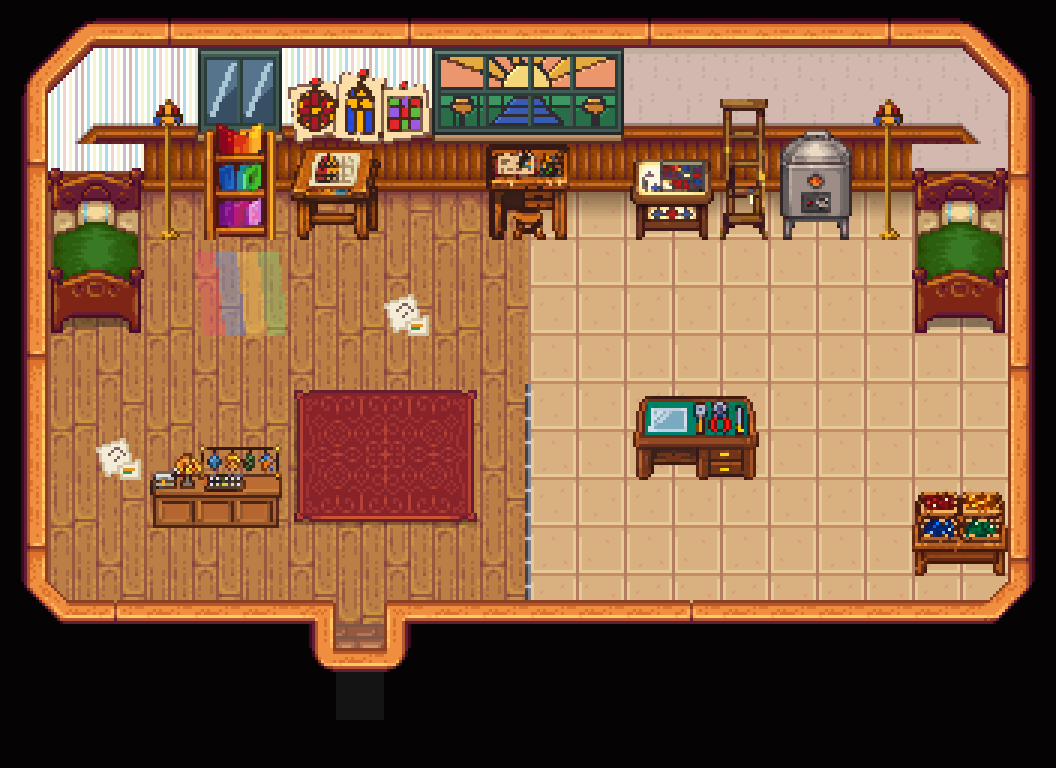
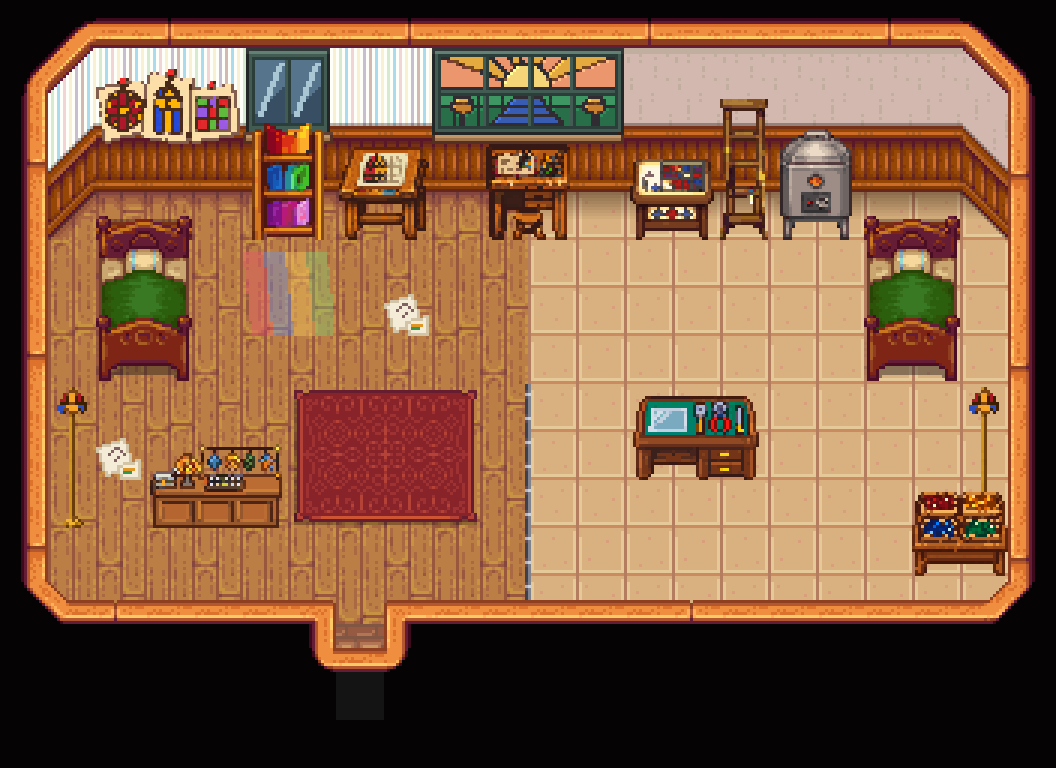
Gilded Vale Studio II: the corner columns left empty so the wall's diagonal corners stay whole; the beds a tile in, the twins' home tiles, schedules and Jet's 10 with them

diff --git a/tools/build_vale_buildings.py b/tools/build_vale_buildings.py
@@ -583,16 +583,16 @@ BUILDINGS = {
                    "glass_counter", "cutting_bench", "light_table", "mabel_bench", "glass_racks", "modern_kiln",
                    "drafting_table")},     # (the drafting table too, the user 2026-11-09: as detailed as the bench)
                "ladder": "art/gilded_vale/interiors/hall/hall_v1/ladder_1_8"},
-        lights=[(3, 3), (10, 3), (13, 4), (18, 3), (4, 9)],
+        lights=[(1, 9), (10, 3), (13, 4), (20, 9), (4, 9)],
         pieces=[
-            # (the beds a row up, their first row on the wainscot: the Saloon bed's top row is a scrap
-            # of the Saloon's own wall, which showed on the floor above them, the user 2026-11-09)
+            # (the corner columns, x 1 and 20, stay empty: the wall's diagonal corner comes down into
+            # them, and a bed there broke it, the user 2026-11-09)
             # ---- Opal's half, the west: her bed at the end, a city lamp, the glass racks
             # throwing colour on the floor, her designs pinned up over her drawing board
             # (the small window behind the racks first, so the racks stand in front of it; its
             # daylight through their glass is the colour on the floor, the user 2026-11-09)
-            ("bed", 1, 3), ("city_lamp", 3, 2), ("small_window", 4, 1), ("glass_racks", 4, 2), ("colour_pool", 4, 5),
-            ("design_sketches", 6, 1), ("drafting_table", 6, 3), ("sketch_papers", 2, 9), ("sketch_papers#2", 8, 6),
+            ("bed", 2, 4), ("city_lamp", 1, 8), ("small_window", 5, 1), ("glass_racks", 5, 2), ("colour_pool", 5, 5),
+            ("design_sketches", 2, 1), ("drafting_table", 7, 3), ("sketch_papers", 2, 9), ("sketch_papers#2", 8, 6),
             # the counter by the door, where she sells; a rug (the panels that leaned on its side went:
             # at 16 pixels wide they read as a pile of stuff, the user 2026-11-09)
             ("glass_counter", 3, 9), ("rug", 6, 8, 4, 3),
@@ -605,7 +605,7 @@ BUILDINGS = {
             # the loft, the sleek city kiln, a city lamp, his bed at the end; his cutting bench and
             # the offcuts sorted by colour, nothing on the floor
             ("light_table", 13, 3), ("ladder", 15, 2), ("modern_kiln", 16, 2),
-            ("city_lamp#2", 18, 2), ("bed#2", 19, 3),
+            ("city_lamp#2", 20, 8), ("bed#2", 18, 4),
             ("cutting_bench", 13, 8), ("offcut_bins", 19, 10),
         ],
         describe={"glass_racks": "racks", "design_sketches": "designs", "drafting_table": "drafting",

diff --git a/ArtStudio/Vale/ValeTests.cs b/ArtStudio/Vale/ValeTests.cs
@@ -30,8 +30,8 @@ internal static class ValeTests
         new("FernAster", "fern", ModEntry.Id + "_ValeFern", new Point(6, 6), "(O)347", "(O)769"),
         new("EmmettWren", "emmett", ModEntry.Id + "_ValeEmmett", new Point(6, 6), "(O)281", "(O)766"),
         // the Corrie twins, from Spring 1, Year 3 (Studio II, their beds at either end)
-        new("OpalCorrie", "opal", ModEntry.Id + "_ValeStudio2", new Point(3, 6), "(O)595", "(O)168"),
-        new("JetCorrie", "jet", ModEntry.Id + "_ValeStudio2", new Point(18, 6), "(O)70", "(O)168"),
+        new("OpalCorrie", "opal", ModEntry.Id + "_ValeStudio2", new Point(4, 6), "(O)595", "(O)168"),
+        new("JetCorrie", "jet", ModEntry.Id + "_ValeStudio2", new Point(17, 6), "(O)70", "(O)168"),
     };
 
     private static readonly string[] ArtLovers = { "Lupini", "TobinClay", "FernAster", "EmmettWren", "OpalCorrie", "JetCorrie" };

diff --git a/tools/corrie_dialogue.py b/tools/corrie_dialogue.py
@@ -20,8 +20,8 @@ WHO = {"opal": ("OpalCorrie", "Opal"), "jet": ("JetCorrie", "Jet")}
 # Jet at the left (his dawn walk first). Rain keeps them in: rain comes before the weekdays.
 _S2, _V = "blinxxy.MuseArt_ValeStudio2", "blinxxy.MuseArt_GildedVale"
 HALL_DAYS = {
-    "OpalCorrie": {d: f"900 {_V} 48 40 0/1700 blinxxy.MuseArt_ValeHouse 17 25 1/2200 {_S2} 3 6 2" for d in ("Tue", "Thu")},
-    "JetCorrie": {d: f"600 {_V} 19 37 3/900 {_V} 40 40 0/1700 {_S2} 16 5 0/2100 {_S2} 18 6 2" for d in ("Tue", "Thu")},
+    "OpalCorrie": {d: f"900 {_V} 48 40 0/1700 blinxxy.MuseArt_ValeHouse 17 25 1/2200 {_S2} 4 6 2" for d in ("Tue", "Thu")},
+    "JetCorrie": {d: f"600 {_V} 19 37 3/900 {_V} 40 40 0/1700 {_S2} 16 5 0/2100 {_S2} 17 6 2" for d in ("Tue", "Thu")},
 }
 
 

diff --git a/tools/build_corrie_events.py b/tools/build_corrie_events.py
@@ -344,7 +344,7 @@ def events():
 
     # ---- 10 hearts: the window (Studio II, a morning) -----------------------------------
     studio[f"blinxxy.MuseArt_Jet10h/{F(J, 10)}/Time 600 900/{mail('JetLetter')}"] = script(
-        "continue", "10 7", f"farmer 7 12 0 {J} 10 5 0 {O} 3 6 2", "skippable",
+        "continue", "10 7", f"farmer 7 12 0 {J} 10 5 0 {O} 4 6 2", "skippable",
         "pause 600", "move farmer 0 -4 0", "move farmer 2 0 1", "faceDirection farmer 0", "pause 300",
         say("Jet is sitting at Mabel's bench. You've never seen anyone sit there. Her pattern book is open at the last page; beside it, the window, finished: the Vale at dawn, the sun over the gold trees, the river."),
         f"faceDirection {J} 2",
